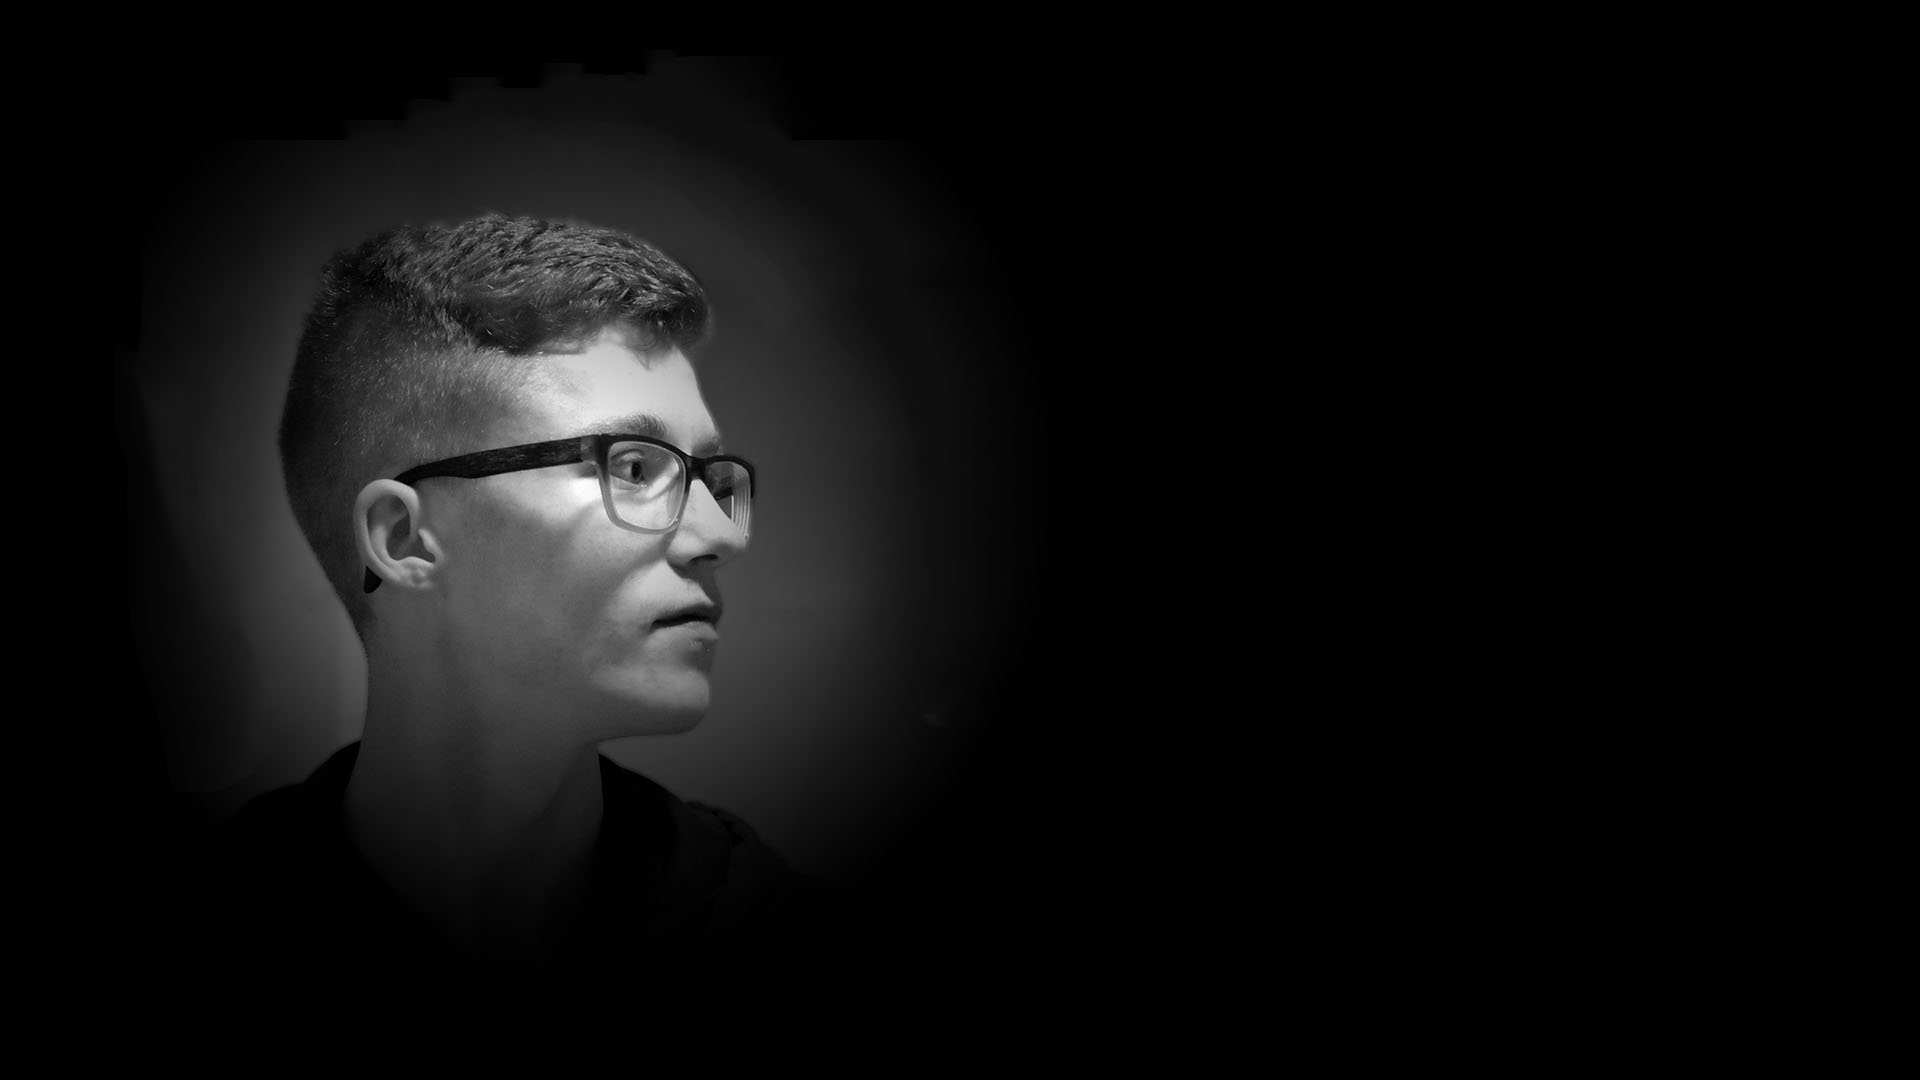
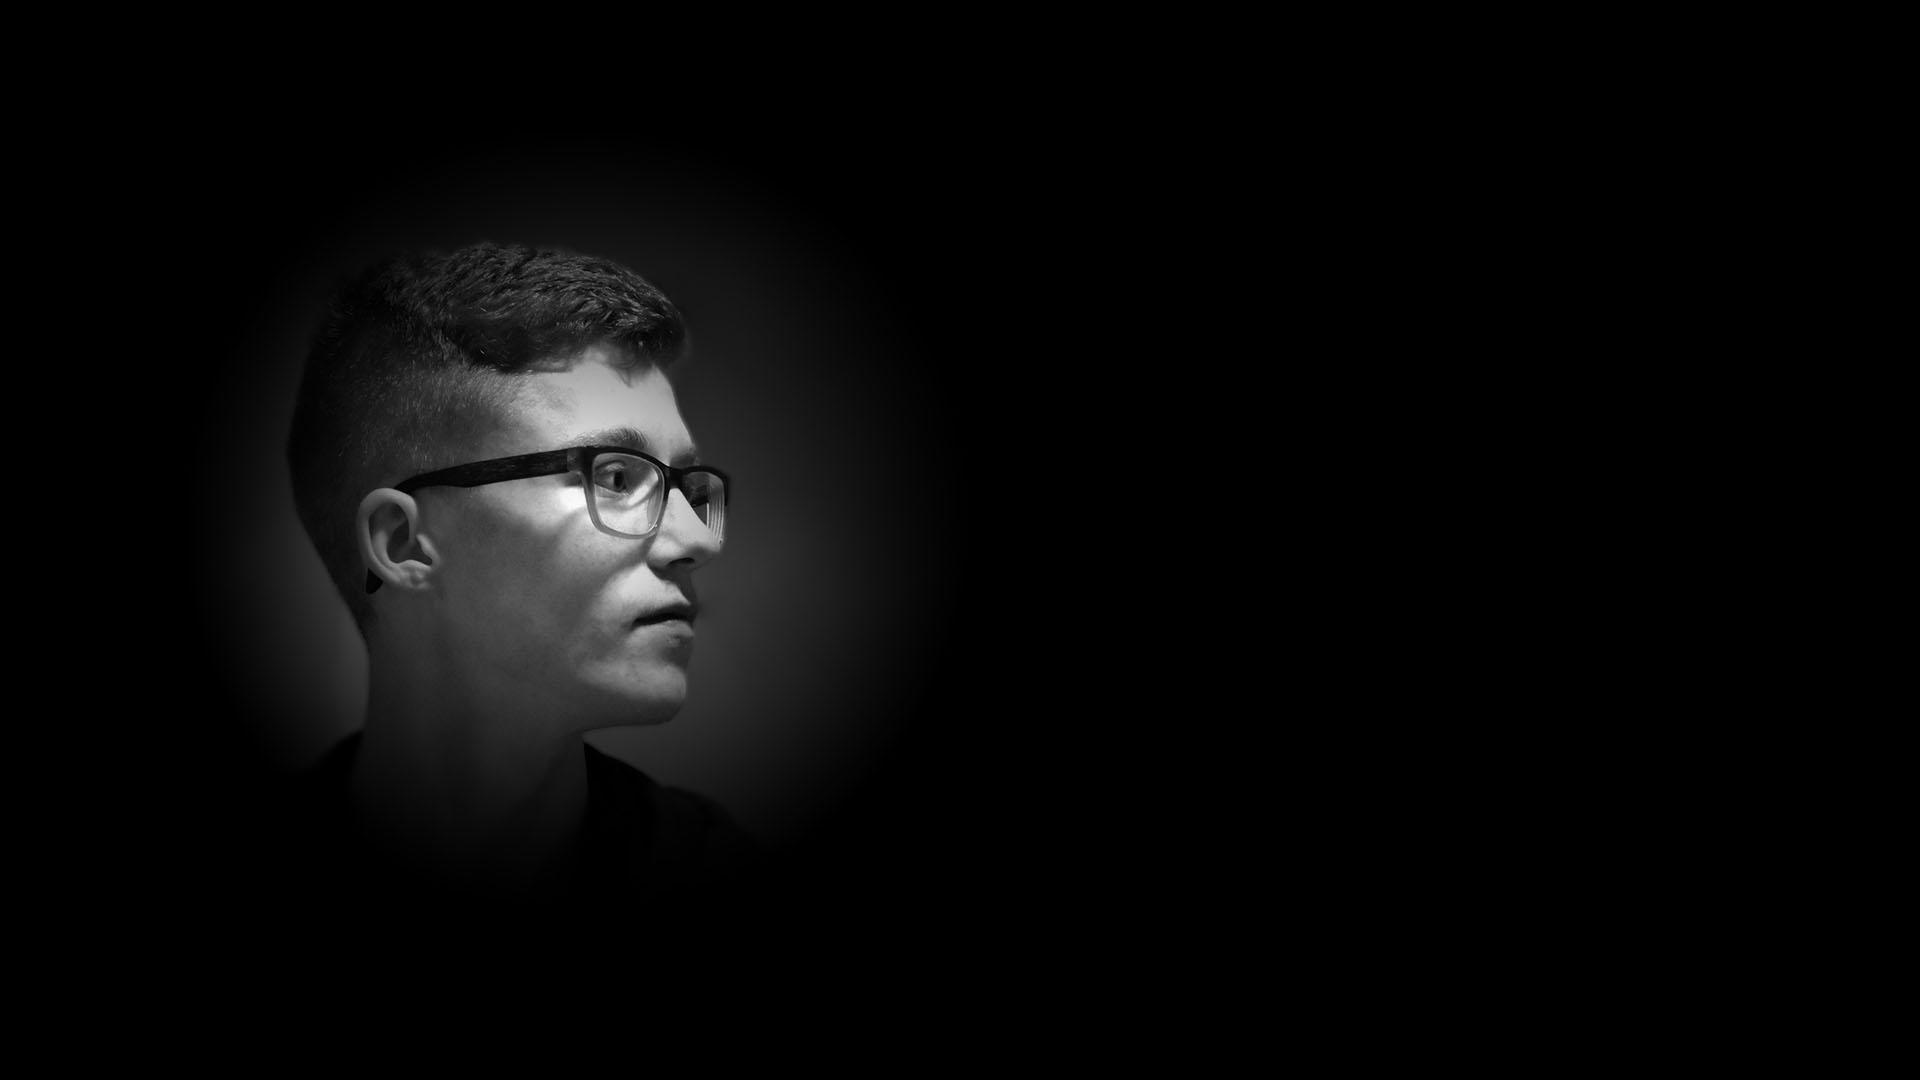
Resize Home Background

diff --git a/index.html b/index.html
@@ -1,118 +1,123 @@
 <style>
-    body {
-        background-color: black;
-        background-image: url("resources/home/PortraitBackground.jpg");
-        background-size: 100%;
-        background-repeat: no-repeat;
-    }
+  body {
+    background-color: black;
+    background-image: url("resources/home/PortraitBackground.jpg");
+    background-size: 100%;
+    background-repeat: no-repeat;
+    background-position-y: -10vh;
+  }
 
-    #TextArea {
-        position: relative;
+  #TextArea {
+    position: relative;
 
-        width: 35vw;
-        height: 40vh;
+    width: 35vw;
+    height: 40vh;
 
-        top: 50%;
-        left: 55%;
+    top: 50%;
+    left: 55%;
 
-        transform: translateY(-50%);
+    transform: translateY(-50%);
 
-        /* border: 2px solid red; */
-    }
+    /* border: 2px solid red; */
+  }
 
-    #TextArea #title {
-        position: absolute;
-        /* border: 2px solid red; */
+  #TextArea #title {
+    position: absolute;
+    /* border: 2px solid red; */
 
-        width: 100%;
+    width: 100%;
 
-        text-align: center;
-        top: 50%;
-        transform: translateY(-50%);
+    text-align: center;
+    top: 50%;
+    transform: translateY(-50%);
 
-        opacity: 0;
+    opacity: 0;
 
-        color: white;
-        font-size: 3.5vw;
-        font-weight: bold;
-        font-family: 'Major Mono Display', monospace;
-    }
+    color: white;
+    font-size: 3.5vw;
+    font-weight: bold;
+    font-family: "Major Mono Display", monospace;
+  }
 
-    #TextArea table {
-        position: absolute;
-        text-align: center;
-        top: 50%;
-        left: 50%;
-        transform: translate(-50%, -50%);
+  #TextArea table {
+    position: absolute;
+    text-align: center;
+    top: 50%;
+    left: 50%;
+    transform: translate(-50%, -50%);
 
-        opacity: 0;
+    opacity: 0;
 
-        color: white;
-        /* border: 2px solid red; */
+    color: white;
+    /* border: 2px solid red; */
 
-        font-size: 1vw;
-        font-weight: 200;
-        font-family: 'Play', sans-serif;
+    font-size: 1vw;
+    font-weight: 200;
+    font-family: "Play", sans-serif;
 
-        width: 90%;
+    width: 90%;
 
-        table-layout: fixed;
-    }
+    table-layout: fixed;
+  }
 
-    td {
-        border-right: 1px solid white;
-        border-left: 1px solid white;
-        user-select: none;
-    }
+  td {
+    border-right: 1px solid white;
+    border-left: 1px solid white;
+    user-select: none;
+  }
 </style>
 
 <html>
-<!-- Fonts Import -->
-<link href="https://fonts.googleapis.com/css?family=Major+Mono+Display|Play" rel="stylesheet">
+  <!-- Fonts Import -->
+  <link
+    href="https://fonts.googleapis.com/css?family=Major+Mono+Display|Play"
+    rel="stylesheet"
+  />
 
-<body>
-    <div>
-    </div>
+  <body>
+    <div></div>
 
     <div id="TextArea">
-        <div id="title">Mark McGregor</div>
-        <table>
-            <tr>
-                <td id="aboutButton">About</td>
-                <td id="galleryButton">Gallery</td>
-                <td id="contactButton">Contact</td>
-            </tr>
-        </table>
+      <div id="title">Mark McGregor</div>
+      <table>
+        <tr>
+          <td id="aboutButton">About</td>
+          <td id="galleryButton">Gallery</td>
+          <td id="contactButton">Contact</td>
+        </tr>
+      </table>
     </div>
-</body>
+  </body>
 
-<script src="node_modules/animejs/lib/anime.min.js"></script>
+  <script src="node_modules/animejs/lib/anime.min.js"></script>
 
-<script>
+  <script>
     var textTL = anime.timeline({
-        easing: 'easeInOutQuad',
+      easing: "easeInOutQuad"
     });
 
     textTL.add({
-        targets: '#title',
-        translateY: '-50%',
+      targets: "#title",
+      translateY: "-50%"
     });
 
     textTL.add({
-        targets: '#title',
-        opacity: 1,
-        duration: 2000,
+      targets: "#title",
+      opacity: 1,
+      duration: 2000
     });
 
     textTL.add({
-        targets: '#title',
-        translateY: '-150%',
+      targets: "#title",
+      translateY: "-150%"
     });
 
-    textTL.add({
-        targets: '#TextArea table',
-        opacity: 1,
-    }, '-=800');
-</script>
-
+    textTL.add(
+      {
+        targets: "#TextArea table",
+        opacity: 1
+      },
+      "-=800"
+    );
+  </script>
 </html>
